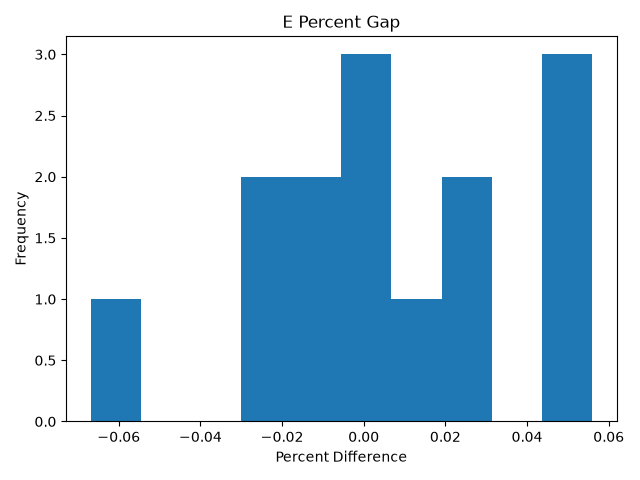
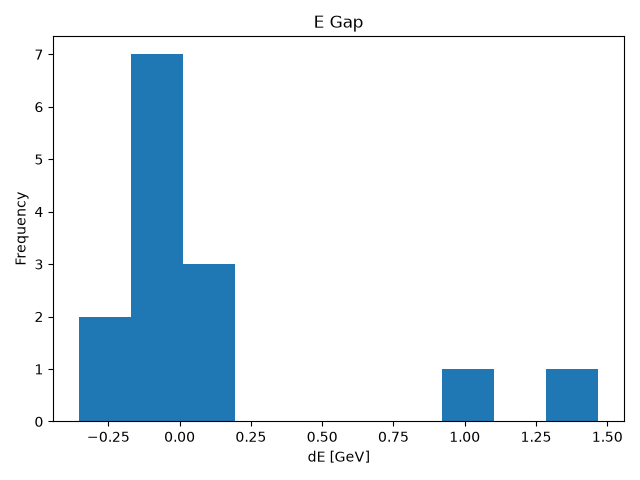
redo, with raw dE, dp_i values instead of percent differences

diff --git a/OutCompare.py b/OutCompare.py
@@ -82,10 +82,10 @@ def percent_gap(j_1, j_2):
   dpy = j_1.py - j_2.py
   dpz = j_1.pz - j_2.pz
 
-  dE_percent = (dE/(j_1.E))*100
-  dpx_percent = (dpx/(j_1.px))*100
-  dpy_percent = (dpy/(j_1.py))*100
-  dpz_percent = (dpz/(j_1.pz))*100
+  dE_percent = dE
+  dpx_percent = dpx
+  dpy_percent = dpy
+  dpz_percent = dpz
 
   return [float(dE_percent), float(dpx_percent), float(dpy_percent), float(dpz_percent)]
 
@@ -104,8 +104,8 @@ py_percentgap = [p[2] for p in percent_gap_matrix]
 pz_percentgap = [p[3] for p in percent_gap_matrix]
 
 plt.hist(E_percentgap, bins=10)
-plt.title("E Percent Gap")
-plt.xlabel("Percent Difference")
+plt.title("E Gap")
+plt.xlabel("dE [GeV]")
 plt.ylabel("Frequency")
 
 plt.tight_layout()
@@ -113,8 +113,8 @@ plt.savefig("E_percent_gap.png", format='png')
 plt.close()
 
 plt.hist(px_percentgap, bins=10)
-plt.title("$P_x$ Percent Gap")
-plt.xlabel("Percent Difference")
+plt.title("$P_x$ Gap")
+plt.xlabel("dp_x [GeV]")
 plt.ylabel("Frequency")
 
 plt.tight_layout()
@@ -122,8 +122,8 @@ plt.savefig("px_percent_gap.png", format='png')
 plt.close()
 
 plt.hist(py_percentgap, bins=10)
-plt.title("$P_y$ Percent Gap")
-plt.xlabel("Percent Difference")
+plt.title("$P_y$ Gap")
+plt.xlabel("dp_y [GeV]")
 plt.ylabel("Frequency")
 
 plt.tight_layout()
@@ -132,7 +132,7 @@ plt.close()
 
 plt.hist(pz_percentgap, bins=10)
 plt.title("$P_z$ Percent Gap")
-plt.xlabel("Percent Difference")
+plt.xlabel("dp_z [GeV]")
 plt.ylabel("Frequency")
 
 plt.tight_layout()
